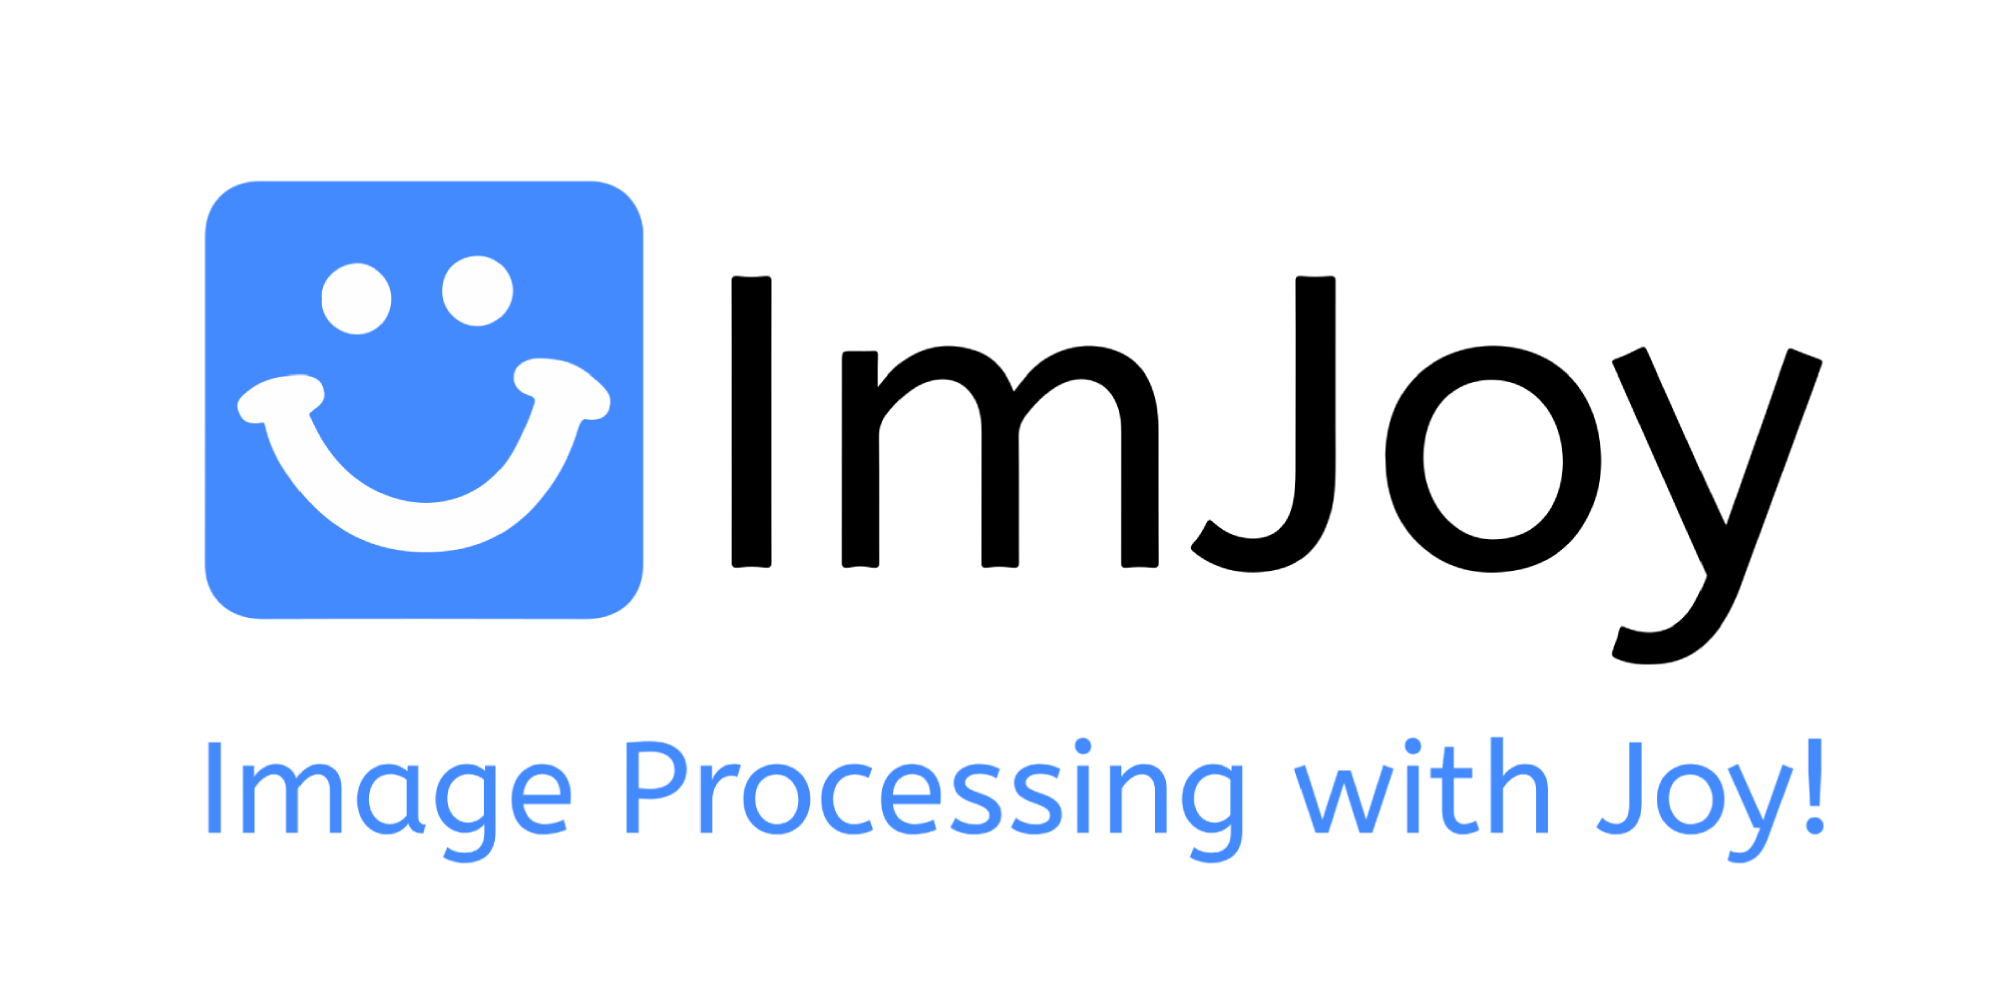
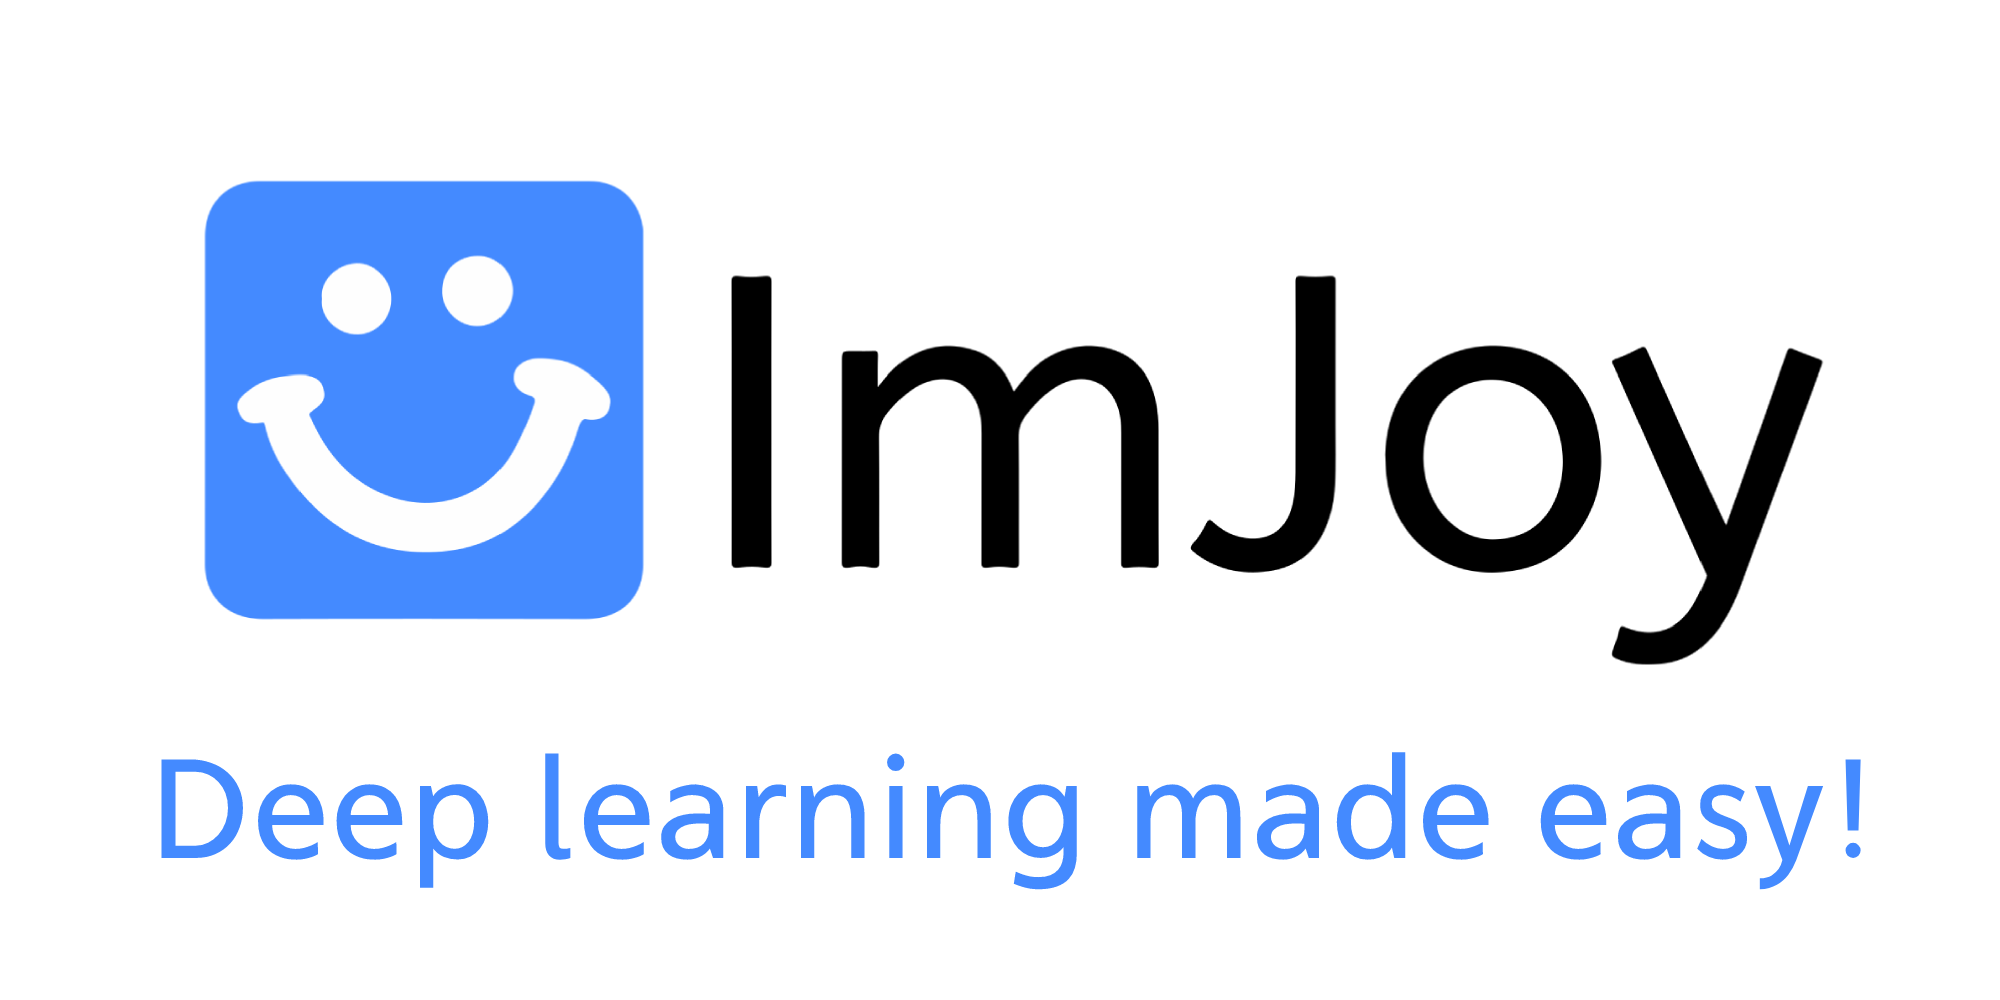
Change theme color (#204)
* change theme color

* change site name; update card

* fix text

* increase timeout to reload

* change theme color

* small text change

* chang theme color

* fix editor line number

Changed region(s): [[0.062, 0.744, 0.93, 0.899]]

diff --git a/web/public/index.html b/web/public/index.html
@@ -36,9 +36,9 @@
     <link rel="icon" href="static/icons/favicon.ico" type="image/x-icon" />
     <link rel="apple-touch-startup-image" href="/launch.png">
     <link rel="manifest" href="manifest.json">
-    <meta name="msapplication-TileColor" content="#ffffff">
+    <meta name="msapplication-TileColor" content="#f5f9ff">
     <meta name="msapplication-TileImage" content="static/icons/ms-icon-144x144.png">
-    <meta name="theme-color" content="#ffffff">
+    <meta name="theme-color" content="#f5f9ff">
     <script type="text/javascript">
       function removeWelcomePage(){
         var element=document.getElementById('welcome-page')
@@ -78,11 +78,11 @@
                 window.location.reload(true);
               }
               else{
-                setTimeout(reload, 10000);
+                setTimeout(reload, 30000);
               }
             }
           }
-          setTimeout(reload, 10000);
+          setTimeout(reload, 30000);
       })();
     </script>
 

diff --git a/web/src/components/Imjoy.vue b/web/src/components/Imjoy.vue
@@ -1,7 +1,7 @@
 <template>
   <div class="imjoy noselect">
     <md-app>
-      <md-app-toolbar class="md-dense" md-elevation="0">
+      <md-app-toolbar class="md-dense app-toolbar" md-elevation="0">
         <md-button
           v-if="!menuVisible"
           class="md-primary md-icon-button"
@@ -3320,6 +3320,10 @@ export default {
   height: 65px;
 }
 
+.app-toolbar {
+  background-color: #d7e5fd52 !important;
+}
+
 @media screen and (max-height: 768px) {
   .site-title {
     height: 55px;
@@ -3520,11 +3524,12 @@ button.md-speed-dial-target {
   height: 100%;
   max-height: 100%;
 }
+
 .menubar-icons {
   display: inline-flex;
   position: absolute;
   right: 0;
-  background-color: rgba(245, 245, 245, 0.8);
+  background-color: #ffffff00;
   z-index: 1;
 }
 

diff --git a/web/src/components/PluginEditor.vue b/web/src/components/PluginEditor.vue
@@ -245,10 +245,8 @@ export default {
             enabled: bigScreen,
           },
           lineNumbers: medianScreen ? "on" : "off",
-          glyphMargin: medianScreen,
           folding: medianScreen,
           lineDecorationsWidth: medianScreen ? 5 : 2,
-          lineNumbersMinChars: 0,
         });
         this.editor.layout();
         setTimeout(() => {

diff --git a/web/src/components/EngineControlPanel.vue b/web/src/components/EngineControlPanel.vue
@@ -150,7 +150,7 @@
           >).
         </p>
         <p>
-          Once installed, please start the Plugin Engine, and fill the
+          Once installed, please start the Plugin Engine, and enter the
           connection token below.
         </p>
         <div v-if="!is_mobile_or_tablet">

diff --git a/web/public/404.html b/web/public/404.html
@@ -144,7 +144,7 @@
 				<h1>Oops!</h1>
 				<h2>404 - The Page can't be found</h2>
 			</div>
-			<a href="/">Go TO ImJoy.IO</a>
+			<a href="/">Go to ImJoy.IO</a>
 		</div>
 	</div>
 
